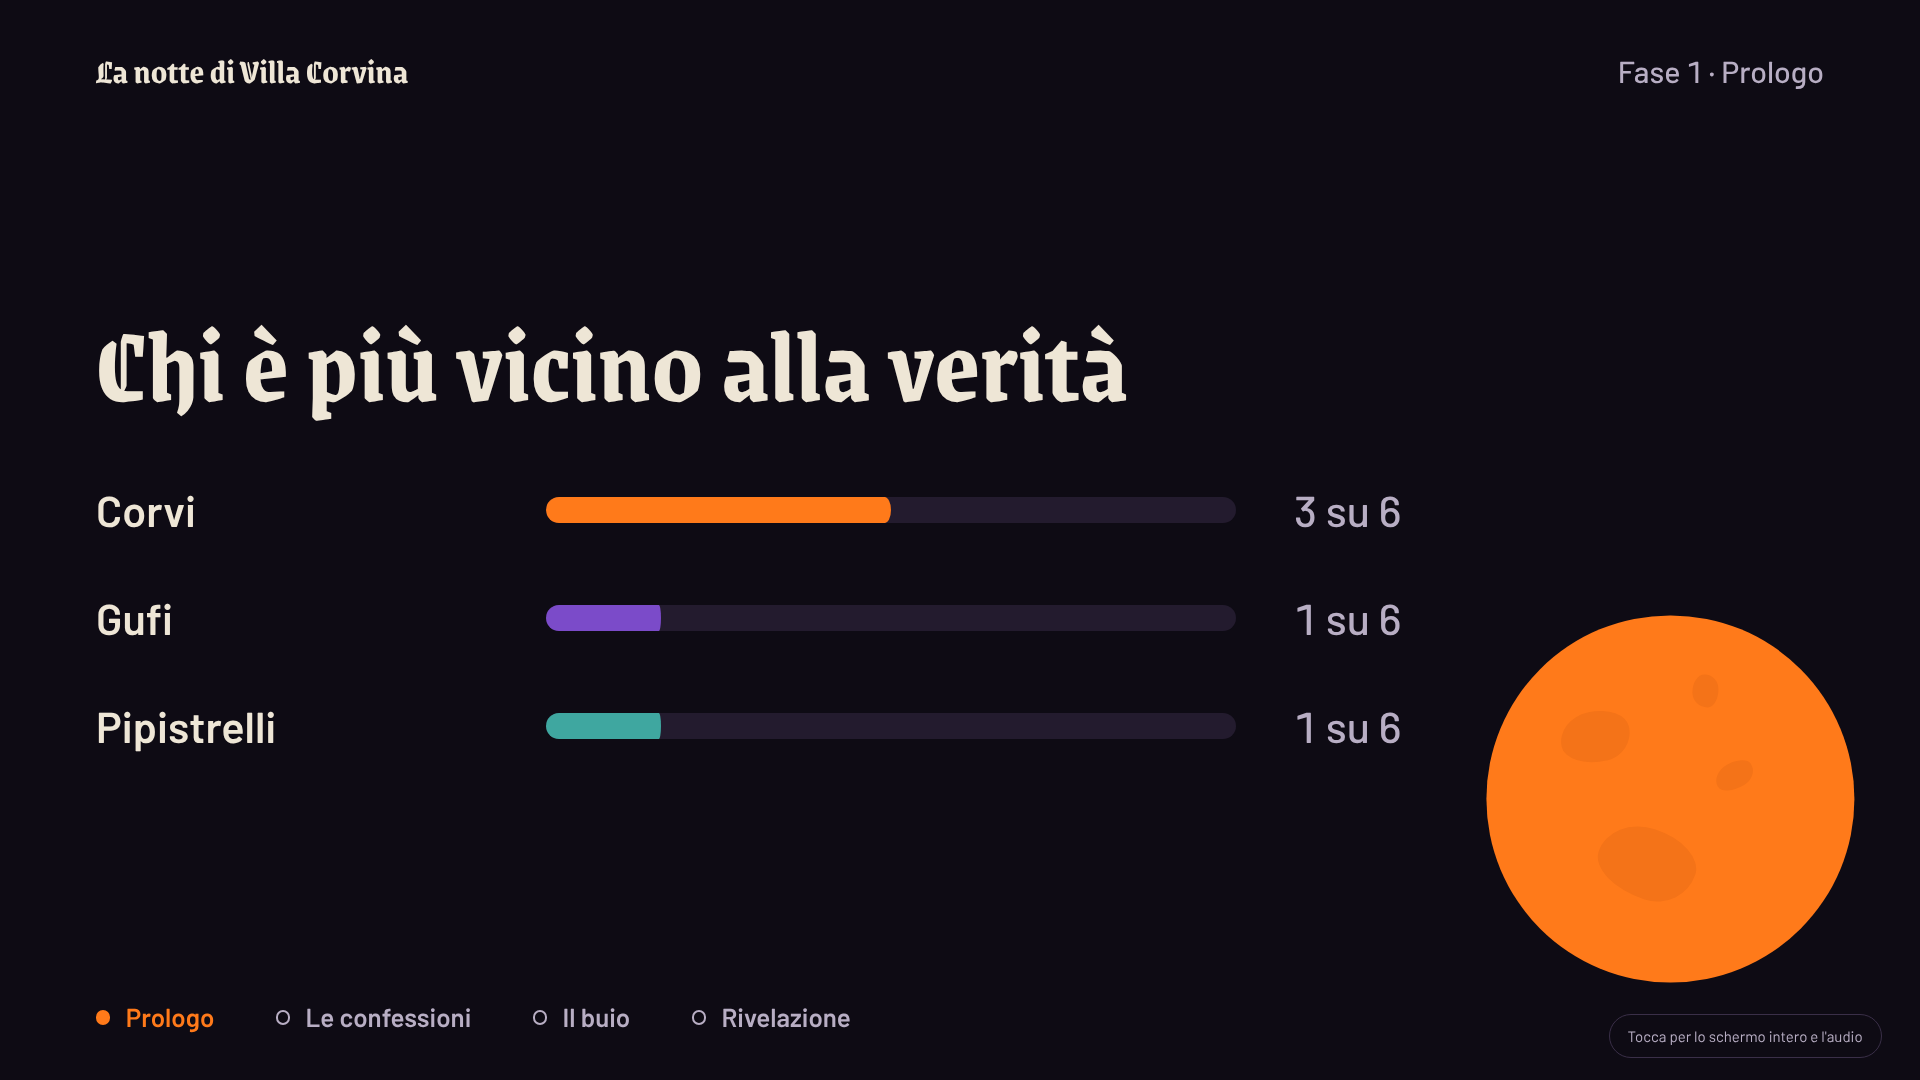
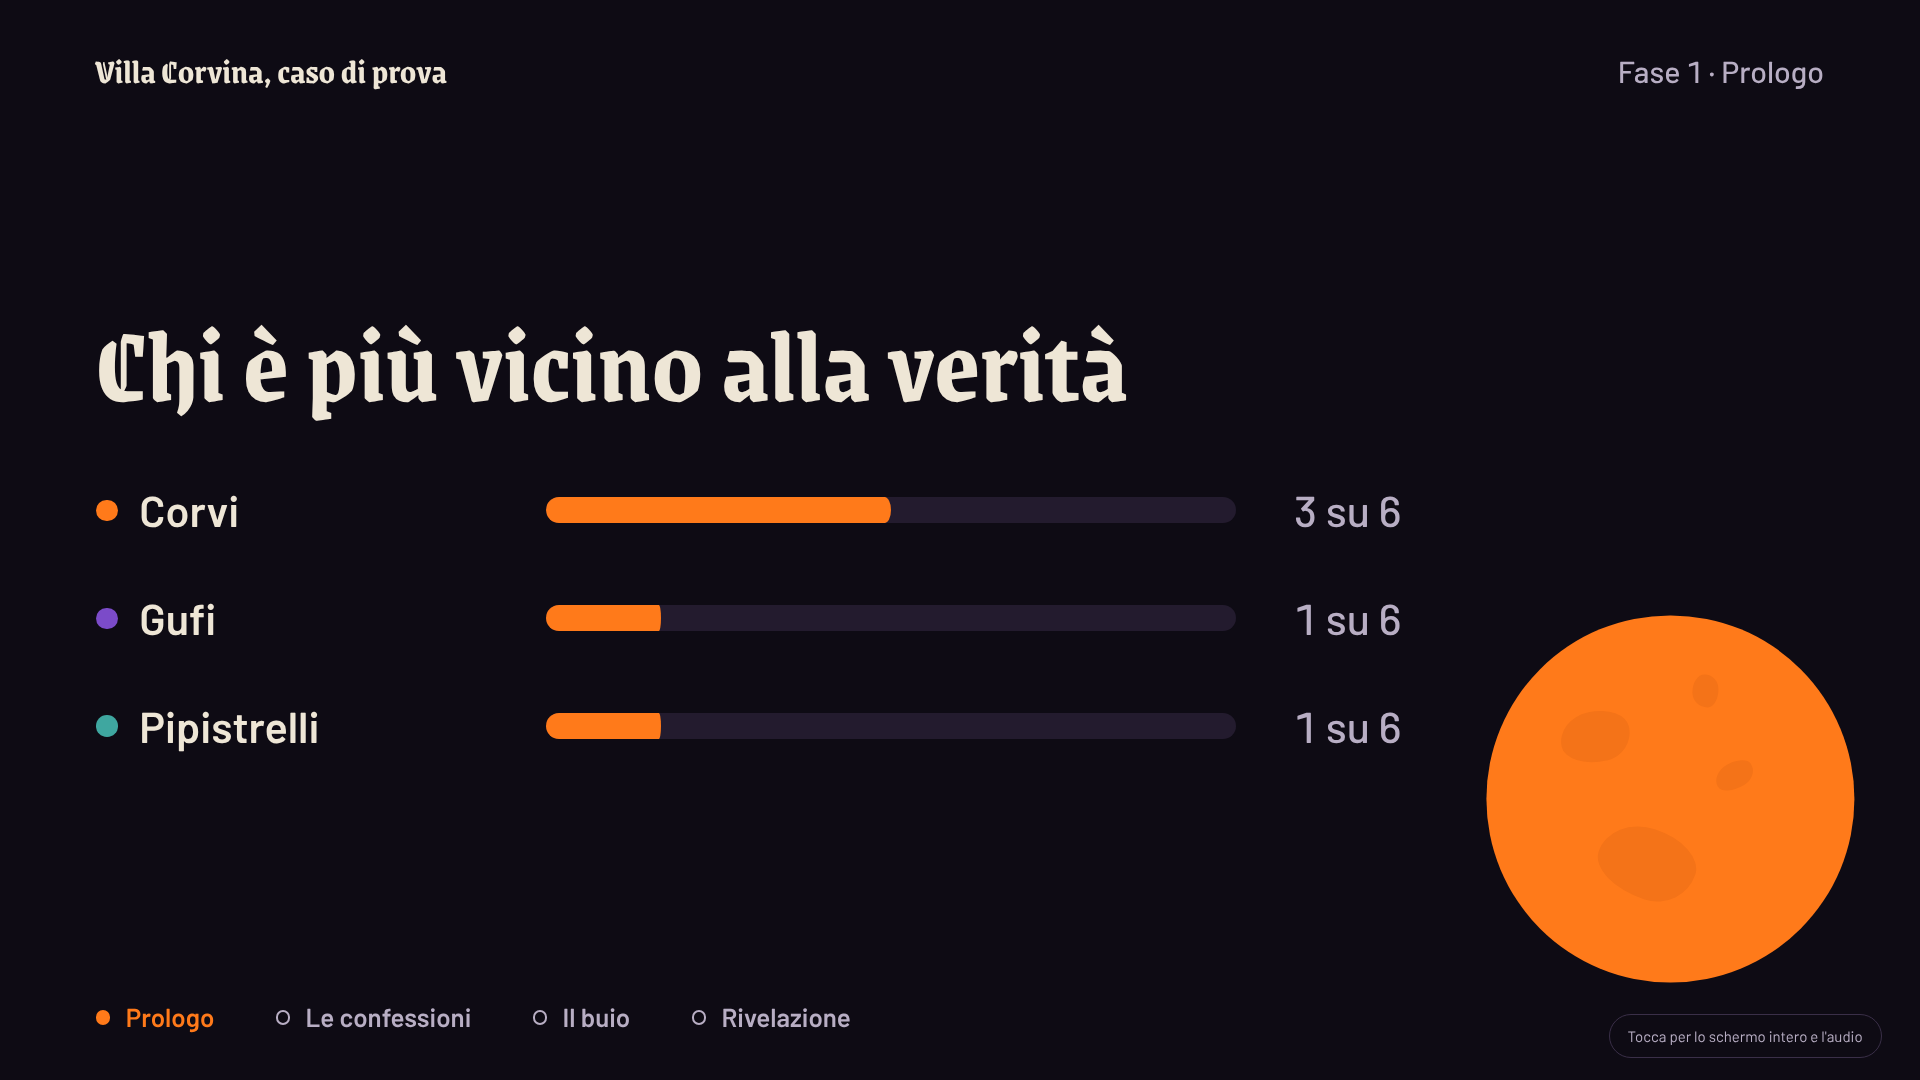
Correzioni dalla revisione Impeccable
Claude-Session: https://claude.ai/code/session_01NvQEBDLWemzZJ4HTyetL7C

diff --git a/src/app/regia/prove.ts b/src/app/regia/prove.ts
@@ -18,14 +18,14 @@ interface Bozza {
   changeDetection: ChangeDetectionStrategy.OnPush,
   styles: `
     .voce-prova { grid-template-columns: auto minmax(0, 1fr) auto; }
-    .num { font-family: var(--gotico); font-size: 26px; width: 40px; color: var(--osso-2); }
+    .num { font-weight: 600; font-size: 20px; width: 40px; color: var(--osso-2); font-variant-numeric: tabular-nums; }
     .modo { border: 1px solid var(--filetto); border-radius: 12px; padding: 14px; display: grid; gap: 12px; }
     .modo-testa { display: flex; justify-content: space-between; align-items: center; gap: 10px; flex-wrap: wrap; }
     .modo-testa strong { font-size: 15px; }
     .cond { display: grid; grid-template-columns: 150px minmax(0, 1fr) auto; gap: 8px; align-items: end; }
     @media (max-width: 560px) { .cond { grid-template-columns: minmax(0, 1fr) auto; } .cond .valore { grid-column: 1 / -1; grid-row: 2; } }
     .togli { width: 44px; height: 48px; border-radius: 10px; border: 1px solid var(--filetto); background: transparent; color: var(--osso-2); display: grid; place-items: center; }
-    .e { font-size: 13px; font-weight: 700; color: var(--osso-2); letter-spacing: 0.04em; }
+    .sep { border: 0; border-top: 1px solid var(--filetto); margin: 2px 0; width: 100%; }
     .pin-riga { display: grid; grid-template-columns: minmax(0, 1fr) auto; gap: 8px; }
     .pin-riga .campo { text-transform: uppercase; letter-spacing: 0.08em; font-weight: 600; }
   `,
@@ -64,7 +64,7 @@ interface Bozza {
           @for (m of b.modi; track $index; let mi = $index) {
             <div class="modo">
               <div class="modo-testa">
-                <strong>{{ mi === 0 ? 'Modo' : 'Oppure' }} {{ b.modi.length > 1 ? mi + 1 : '' }}</strong>
+                <strong>{{ nomeModo(mi) }}@if (m.condizioni.length > 1) {<span class="secondario" style="font-weight:400">, tutte le condizioni insieme</span>}</strong>
                 <label class="sr" [for]="'sq-' + mi">Per chi</label>
                 <select class="campo" style="width:auto; min-height:40px" [id]="'sq-' + mi" [name]="'sq-' + mi" [(ngModel)]="m.squadra_id">
                   <option [ngValue]="null">Vale per tutte le squadre</option>
@@ -72,7 +72,7 @@ interface Bozza {
                 </select>
               </div>
               @for (c of m.condizioni; track $index; let ci = $index) {
-                @if (ci > 0) { <span class="e">E INOLTRE</span> }
+                @if (ci > 0) { <hr class="sep" aria-hidden="true"> }
                 <div class="cond">
                   <label class="etichetta" [for]="'t-' + mi + '-' + ci">Condizione
                     <select class="campo" [id]="'t-' + mi + '-' + ci" [name]="'t-' + mi + '-' + ci" [(ngModel)]="c.tipo">
@@ -142,6 +142,11 @@ export class ProveRegia {
   readonly tipi = Object.entries(TIPI_PROVA);
   b: Bozza | null = null;
   conferma = false;
+
+  nomeModo(i: number) {
+    const n = this.b!.modi.length > 1 ? ` ${i + 1}` : '';
+    return (i === 0 ? 'Modo' : 'Oppure') + n;
+  }
 
   condizione(tipo: Condizione['tipo']): Condizione {
     return { tipo, pin: '', prova_richiesta_id: null, fase_numero: null };

diff --git a/src/app/schermo/schermo.css b/src/app/schermo/schermo.css
@@ -45,7 +45,9 @@
 .classifica { display: grid; gap: 4vh; }
 .riga { display: grid; grid-template-columns: minmax(0, 16ch) minmax(0, 1fr) auto; align-items: center; gap: 3vw; font-size: clamp(24px, 4vh, 48px); font-weight: 600; }
 .barra { height: 2.4vh; border-radius: 999px; background: var(--notte-3); overflow: hidden; }
-.barra span { display: block; height: 100%; border-radius: 999px; transform-origin: left; transition: transform 1100ms var(--curva-uscita); }
+.nome-sq { display: flex; align-items: center; gap: 0.5em; min-width: 0; }
+.pallino { width: 0.5em; height: 0.5em; border-radius: 50%; flex: none; }
+.barra span { display: block; height: 100%; border-radius: 999px; background: var(--zucca); transform-origin: left; transition: transform 1100ms var(--curva-uscita); }
 .quante { color: var(--osso-2); font-weight: 500; }
 
 .rivelazione { align-items: center; text-align: center; gap: 3vh; }

diff --git a/src/app/schermo/schermo.html b/src/app/schermo/schermo.html
@@ -71,8 +71,8 @@
             <div class="classifica">
               @for (q of sc.squadre ?? []; track q.nome) {
                 <div class="riga">
-                  <span>{{ q.nome }}</span>
-                  <div class="barra"><span [style.transform]="'scaleX(' + quota(q.aperte) + ')'" [style.background]="q.colore"></span></div>
+                  <span class="nome-sq"><i class="pallino" [style.background]="q.colore"></i>{{ q.nome }}</span>
+                  <div class="barra"><span [style.transform]="'scaleX(' + quota(q.aperte) + ')'"></span></div>
                   <span class="quante">{{ q.aperte }} su {{ sc.totaleProve }}</span>
                 </div>
               }

diff --git a/src/app/regia/diretta.ts b/src/app/regia/diretta.ts
@@ -73,7 +73,7 @@ import { RegiaStato, SquadraR, TIPI_SCENA } from './stato';
               <span class="luna" aria-hidden="true"></span>
               @if (!s.schermo_nero) {
                 <strong>{{ scenaInOnda()?.titolo || nomeTipo(scenaInOnda()?.tipo ?? 'attesa') }}</strong>
-                <small>{{ nomeTipo(scenaInOnda()?.tipo ?? 'attesa') }}</small>
+                @if (scenaInOnda()?.titolo) { <small>{{ nomeTipo(scenaInOnda()!.tipo) }}</small> }
               }
             </div>
             <div class="prossima">
